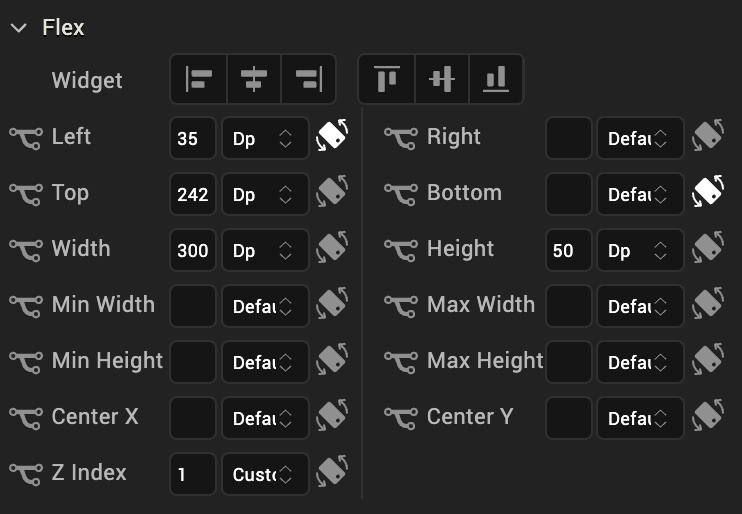
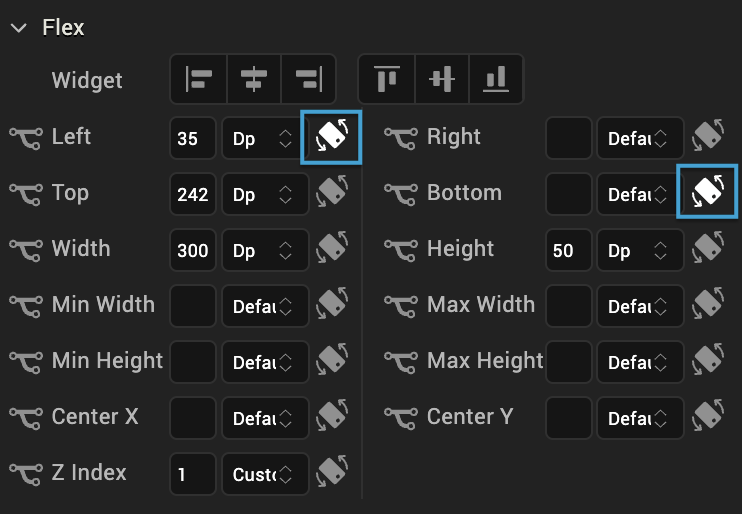
Merge pull request #2234 from phoenix-temenos/2123-portrait-landscape-doc
portrait-landscape-doc-updates

Changed region(s): [[0.403, 0.1868, 0.496, 0.3424], [0.8989, 0.3113, 1.0, 0.4358]]

diff --git a/version/95/Iris/app_design_dev/Content/ConfigScreenForBothPortAndLand.md b/version/95/Iris/app_design_dev/Content/ConfigScreenForBothPortAndLand.md
@@ -20,7 +20,7 @@ To configure a screen for both portrait and landscape orientations, do the follo
      ![](Resources/Images/ToggleOrientation.png)
 
 7.  Modify the widget's properties by dragging the widget into position on the Iris Canvas, and/or setting the properties in the Flex section of the **Look** tab.
-8.  To lock a particular Flex property so that it cannot be modified (whether by dragging, or changing its value in its property field), click its lock icon.
+8.  To lock a particular Flex property so that it cannot be modified (whether by dragging, or changing its value in its property field) after switching to another orientation, click its orientation lock icon.
 
     ![](Resources/Images/LinkPropToFork.png)
 
